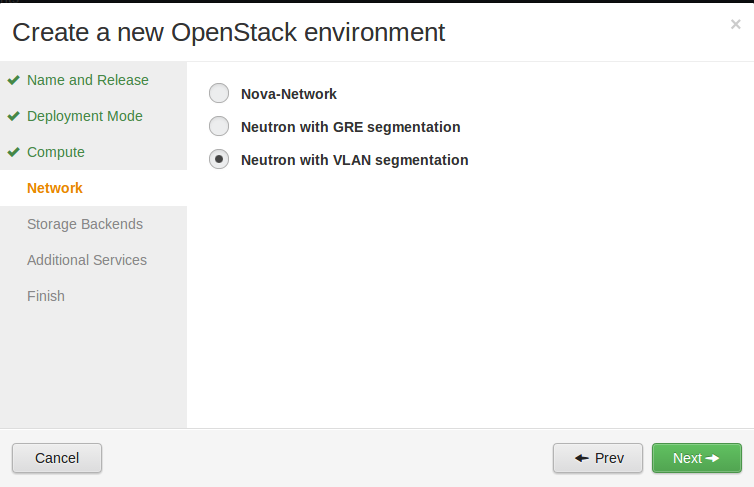
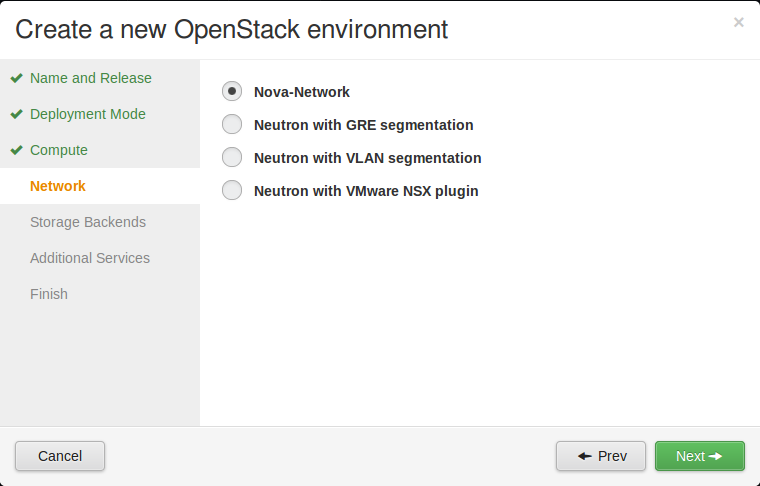
document new topology "Neutron with NSX"
- add image to Reference architecture that show how new topology looks
  like
- update screenshot that reflects new topology in environment creation
  wizard
- describe new topology in Planning guide
- in User guide mention that we have five available topologies
- explicitly state that separate Physical network is not required for
  "Neutron with NSX" topology

Implements: blueprint vcenter-documentation-update-fuel-5.1

diff --git a/pages/planning-guide/4200-net-topology.rst b/pages/planning-guide/4200-net-topology.rst
@@ -4,12 +4,13 @@
 Choose Network Topology
 =======================
 
-OpenStack supports two network modes,
-each of which supports two topologies.
-For architectural descriptions of the four topologies, see:
+Mirantis OpenStack supports two network modes,
+which in turn support five topologies.
+For architectural descriptions of the five topologies, see:
 
 * :ref:`neutron-vlan-ovs-arch`
 * :ref:`neutron-gre-ovs-arch`
+* :ref:`neutron-nsx-arch`
 * :ref:`nova-flatdhcp-arch`
 * :ref:`nova-vlan-arch`
 
@@ -17,46 +18,58 @@ For architectural descriptions of the four topologies, see:
 It can operate with predefined Private IP spaces only.
 
 * If you do not want to split your VMs into isolated groups (tenants),
-  you can choose the **Nova-network with FlatDHCP topology**.
-  In this case, you will have one big tenant for all VMs.
+  you can choose the **Nova-network with FlatDHCP** topology.
+  In this case, you will have one big network
+  for all tenants and their VMs.
 
-* If you want use multiple tenants
-  and all of them contain approximately the same number of VMs,
-  you can use the **Nova-network with VLANManager topology**.
-  In this case, the number of the tenants is predefined
-  and all the tenants have equal amount of Private IP space.
-  You must decide about these two numbers
-  (max number of tenants and Private IP space size)
-  before starting deployment.
-  Also, you must set up appropriate VLANs
+* The **Nova-network with VLANManager** topology
+  is a form of provider network.
+  This allows you to have multiple tenants,
+  each of which supports approximately the same number of VMs
+  and an equal amount of Private IP space.
+  The maximum number of tenants
+  and the private IP space size must be defined
+  before you deploy your environment.
+  You must also set up appropriate VLANs and gateways
   on your underlying network equipment.
 
 **Neutron** is a modern and more complicated network manager.
-It can not only separate tenants
-but it decreases the requirements for the underlying network
-(physical switches and topology)
+It separates tenants,
+decreases the requirements for the underlying network
+(physical switches and topology),
 and gives a great deal of flexibility
 for manipulating Private IP spaces.
 You can create Private IP spaces with different sizes
 and manipulate them on the fly.
 
-* The **Neutron with VLAN topology**,
+* The **Neutron with VLAN** topology,
   like Nova-network with VLANManager,
   requires a predefined maximum number of tenants value
   and underlying network equipment configuration.
 
 * The **Neutron with GRE** topology
-  does not restrict the maximum number of VLANs
-  and you can spawn a very large number of tenants.
-  But GRE encapsulation decreases the speed of communication between the VMs
+  allows more flexibility in the maximum number of tenants
+  (it supports up to 65535 tenants)
+  and simplifies the network equipment configuration,
+  but GRE encapsulation decreases the speed of communication between the VMs
   and increases the CPU utilization on the Compute and Controller nodes.
-  So, if you do not need really fast interconnections between VMs,
-  do not want to predetermine the maximum number of tenants,
-  and do not want to configure your network equipment,
-  you can choose the Neutron + GRE topology.
+
+* The **Neutron with VMware NSX** topology utilizes
+  the VMware NSX network hypervisor as a backend for Neutron.
+  The user must install and configure VMware NSX
+  before deploying the OpenStack environment that will be using it.
+  As with GRE segmentation,
+  it does not restrict the maximum number of available networks.
+  The user must also obtain NSX specific packages
+  and host them on a web server (usually the Fuel master node)
+  so that Puppet can download and install them
+  on controllers and compute nodes during the deployment stage.
 
 Some other considerations when choosing a network topology:
 
-- :ref:`ovs-term` and :ref:`bonding-term` can only be implemented on Neutron.
-- VMWare vCenter can only be implemented on Nova-network.
-- Murano is supported only on Neutron.
+- :ref:`ovs-term`, :ref:`bonding-term`, and :ref:`murano-term`
+  can only be implemented on Neutron.
+- VMWare :ref:`vcenter-term` and :ref:`vsphere-term`
+  can only be implemented on Nova-network.
+- Neutron with VMware NSX can only be implemented with the KVM/QEMU hypervisor.
+

diff --git a/pages/reference-architecture/6050-neutron-topologies.rst b/pages/reference-architecture/6050-neutron-topologies.rst
@@ -34,6 +34,7 @@ to act as a virtual Neutron router in HA (if deploying in HA mode).
 .. include:: /pages/reference-architecture/neutron-intro/0210-vlan.rst
 .. include:: /pages/reference-architecture/neutron-intro/0220-gre.rst
 .. include:: /pages/reference-architecture/neutron-intro/0260-neutron-config.rst
+.. include:: /pages/reference-architecture/neutron-intro/0270-nsx.rst
 .. include:: /pages/reference-architecture/neutron-intro/0300-neutron-limits.rst
 .. include:: /pages/reference-architecture/neutron-intro/0500-nic-usage.rst
 

diff --git a/pages/user-guide/create-environment/3000-choose-network.rst b/pages/user-guide/create-environment/3000-choose-network.rst
@@ -11,10 +11,10 @@ Network service
 .. image:: /_images/user_screen_shots/network-services.png
    :width: 50%
 
-Four network topologies are supported;
+Five network topologies are supported;
 see :ref:`net-topology-plan`.
 
-You can choose either of the Neutron topologies on this screen.
+You can choose any of the Neutron topologies on this screen.
 If you choose Nova-network here,
 you can choose between the FlatDHCP and VLAN topologies
 on the Network Settings page.

diff --git a/pages/reference-architecture/neutron-intro/0270-nsx.rst b/pages/reference-architecture/neutron-intro/0270-nsx.rst
@@ -1,0 +1,15 @@
+
+.. _neutron-nsx-arch:
+
+Neutron with VMware NSX
+-----------------------
+
+A typical network configuration for Neutron with VMware NSX
+might look like this:
+
+.. image:: /_images/Neutron_nsx_topology.png
+  :width: 80%
+
+.. note:: You do not need a physically separate Private network for this
+          setup.
+
